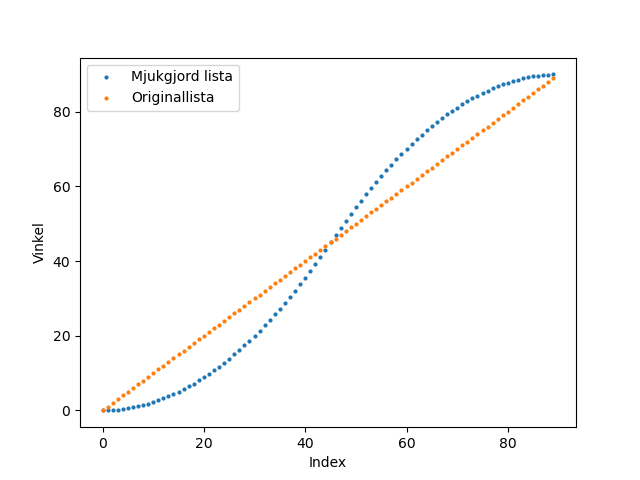
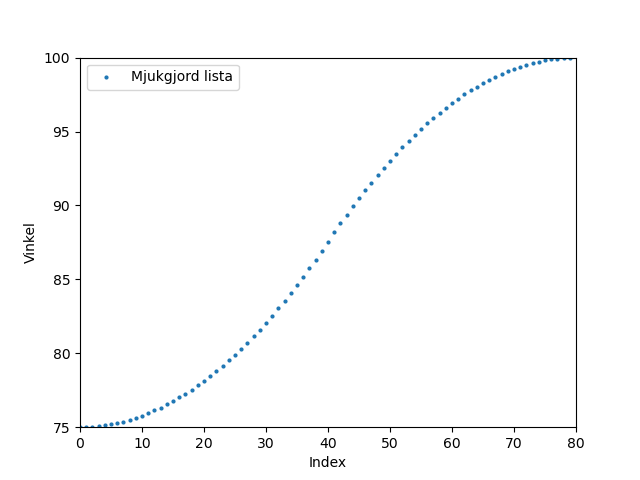
fixat interface och servostyrning

diff --git a/src/runner.py b/src/runner.py
@@ -23,9 +23,15 @@ class Builder:
     def reset_meat(self):
         self.meat = False;
 
+    def init(self):
+        init = ["dog_to_mags", "bread_to_dog"]
+        init_seq = Sequence("init", init)
+        Runner.init(init_seq)
+
     def build(self):
         dog = ["dog_to_mags", "meat/veg", "dog_down", "dog_up", "dog_to_heater", "dog_down", "turn_on", "dog_up", "dog_to_bread", "dog_down"];
         bread = ["bread_to_dog", "dressing", "bread_to_dog"]
+        test = ["dog_to_mags", "dog_to_meat", "dog_down", "dog_up", "dog_to_mags"]
         if self.d1 and self.d2:
             bread[1] = "bread_to_d1"
             bread.insert(2, "dress1")
@@ -40,24 +46,23 @@ class Builder:
         else:
             del bread[1]
 
-        
         if self.meat:
             dog[1] = "dog_to_meat"
-            # config.meat_curr -= 1
-    
+            test[1] = "dog_to_meat"
         else:
             dog[1] = "dog_to_veg"
-            # config.veg_curr -= 1
+            test[1] = "dog_to_veg"
 
-        b_seq = Sequence("b_seq", bread)
-        d_seq = Sequence("d_seq", dog)
-        fin_seq = Sequence("fin_seq", ["dog_final", "bread_final", "dog_up", "dog_to_mags"])
+        b_seq = Sequence("b", bread)
+        d_seq = Sequence("d", dog)
+        fin_seq = Sequence("fin", ["dog_final", "bread_final", "dog_up", "dog_to_mags"])
+        test_seq = Sequence("test_seq", test)
 
         print(f"MEAT: {self.meat}")
         print(f"d1: {self.d1}")
         print(f"d2: {self.d2}")
 
-        return Runner([b_seq, d_seq, fin_seq])
+        return Runner([b_seq, d_seq, fin_seq, test_seq])
 
 
 class Runner:
@@ -69,7 +74,7 @@ class Runner:
     def run(self):
         bread_thread = Thread(target = self.seqs[0].run)
         dog_thread = Thread(target = self.seqs[1].run)
-        final_thread = Thread(target = self.seqs[2].run_sync)
+        final_thread = Thread(target = self.seqs[2].run_fin)
 
         self.running = True
         bread_thread.start()
@@ -82,6 +87,22 @@ class Runner:
         final_thread.join()
 
         self.running = False
+
+    def test(self):
+        test_thread = Thread(target = self.seqs[3].run)
+
+        self.running = True
+
+        test_thread.start()
+        test_thread.join()
+
+        self.running = False
+
+    def init(seq):
+        init_thread = Thread(target = seq.run_sync)
+
+        init_thread.start()
+        init_thread.join()
 
 
 
@@ -98,6 +119,12 @@ class Sequence:
             op_th.join()
 
     def run_sync(self):
+        for op in self.ops:
+            op_th = Thread(target = ops[op].run)
+            op_th.start()
+
+
+    def run_fin(self):
         op1 = Thread(target = ops["dog_final"].run)
         op2 = Thread(target = ops["bread_final"].run)
         op3 = Thread(target = ops["dog_up"].run)
@@ -133,11 +160,11 @@ class Operation:
 
 ops = {}
 
-ops["dog_to_meat"] = Operation(0.3, servo.servos["d_arm"].goto_meat_mag)
+ops["dog_to_meat"] = Operation(1.3, servo.servos["d_arm"].goto_meat_mag)
 
-ops["dog_to_veg"] = Operation(0.3, servo.servos["d_arm"].goto_veg_mag)
+ops["dog_to_veg"] = Operation(1.3, servo.servos["d_arm"].goto_veg_mag)
 
-ops["dog_to_mags"] = Operation(0.3, servo.servos["d_arm"].goto, "mags")
+ops["dog_to_mags"] = Operation(1.3, servo.servos["d_arm"].goto, "mags")
 
 ops["dog_to_heater"]    = Operation(0.3, servo.servos["d_arm"].goto, "heater")
 ops["dog_to_bread"]     = Operation(0.3, servo.servos["d_arm"].goto, "d_final")

diff --git a/src/interface.py b/src/interface.py
@@ -25,14 +25,14 @@ class Interface:
         self.veg_refill = False
         
     def fyllt1(self, e):
-        GPIO.output(MAG_1_FILL_LED_PIN , 0)
+        GPIO.output(MAG_1_FILL_LED_PIN , GPIO.LOW)
         config.meat_curr = 9
         self.meat_refill = False
         print("mag 1 full")
         print("mag 1 (LED_OFF)")
 
     def fyllt2(self, e):
-        GPIO.output(MAG_2_FILL_LED_PIN , 0)
+        GPIO.output(MAG_2_FILL_LED_PIN , GPIO.LOW)
         config.veg_curr = 4
         self.veg_refill = False
         print("mag 2 full")
@@ -51,22 +51,26 @@ class Interface:
         GPIO.setup(MAG_2_FILL_LED_PIN, GPIO.OUT)
         GPIO.setup(HEATER_LED_PIN, GPIO.OUT)
         
+        GPIO.output(MAG_1_FILL_LED_PIN , GPIO.LOW)
+        GPIO.output(MAG_2_FILL_LED_PIN , GPIO.LOW)
         GPIO.add_event_detect(START_PIN, GPIO.RISING, callback=self.go, bouncetime=300)
 
         self.run = False
         self.ready_togo = False
+        
+        self.start_led_off()
 
         while not self.run:
 
-            if config.meat_curr <= 0 and not self.meat_refill:
-                GPIO.output(MAG_1_FILL_LED_PIN, 1)
+            if config.meat_curr < 0 and not self.meat_refill:
+                GPIO.output(MAG_1_FILL_LED_PIN, GPIO.HIGH)
                 GPIO.add_event_detect(MAG_1_FILL_PIN, GPIO.RISING, callback=self.fyllt1, bouncetime=300)
                 print("mag 1 needs refill")
                 print("mag 1 low (LED_ON)")
                 self.meat_refill = True
 
-            if config.veg_curr <= 0 and not self.veg_refill:
-                GPIO.output(MAG_2_FILL_LED_PIN, 1)
+            if config.veg_curr < 0 and not self.veg_refill:
+                GPIO.output(MAG_2_FILL_LED_PIN, GPIO.HIGH)
                 GPIO.add_event_detect(MAG_2_FILL_PIN, GPIO.RISING, callback=self.fyllt2, bouncetime=300)
                 print("mag 2 needs refill")
                 print("mag 2 low (LED_ON)")
@@ -77,10 +81,13 @@ class Interface:
             else:
                 self.builder.reset_meat()
 
-            if ((config.meat_curr > 0 and self.builder.meat) or (config.veg_curr > 0 and not self.builder.meat)):# and not running :
+            if ((config.meat_curr >= 0 and self.builder.meat) or (config.veg_curr >= 0 and not self.builder.meat)):# and not running :
                 self.ready_togo = True
                 print("READY")
                 self.start_led_on()
+            else:
+                self.start_led_off()
+                self.ready_togo = False
 
             time.sleep(0.2)
 
@@ -94,6 +101,11 @@ class Interface:
         else:
             self.builder.reset_d2()
 
+        GPIO.remove_event_detect(START_PIN)
+            
+        self.veg_refill = False
+        self.meat_refill = False
+
         return True
 
     def start_led_on(self):
@@ -103,11 +115,8 @@ class Interface:
         GPIO.output(START_LED_PIN , GPIO.LOW)
 
     def go(self, e):
-        if self.ready_togo:
-            self.run = True
-            self.start_led_off()
-
-        
-
-
-
+        time.sleep(0.1)
+        if GPIO.input(START_PIN):
+            if self.ready_togo and not self.run:
+                self.run = True
+                self.start_led_off()

diff --git a/src/servo.py b/src/servo.py
@@ -10,15 +10,15 @@ class Servo:
         self.set(config.degStates[pos[0]])
 
     def goto_meat_mag(self):
-        print(config.meat_curr)
+        print(f"going to meat pos{config.meat_curr}, position: {config.degStates[f'meat{config.meat_curr}']}")
         pos = config.degStates[f"meat{config.meat_curr}"]
         config.meat_curr = (config.meat_curr - 1)
-        print(config.meat_curr)
         self.set(pos)
 
     def goto_veg_mag(self):
-        config.veg_curr = (config.veg_curr - 1)
+        print(f"going to veg pos{config.veg_curr}, position: {config.degStates[f'veg{config.veg_curr}']}")
         pos = config.degStates[f"veg{config.veg_curr}"]
+        config.veg_curr = (config.veg_curr - 1)
         self.set(pos)
 
     def run(self, cw, timeout, gpio, throttle):
@@ -34,7 +34,7 @@ class Servo:
         self.run(False, 0, config.pins['arm']['up'], 1)
 
     def dress(self):
-        self.run(True, 0.5, 0, 1)
+        self.run(True, 3, 0, 1)
 
     def stop():
         for s in servos:
@@ -55,10 +55,10 @@ class CServo(Servo):
 
 servos = {}
 
-servos["d_arm"] = SServo(590, 1950, 75, "d_arm", 1)
+servos["d_arm"] = SServo(590, 2000, 75, "d_arm", 1)
 servos["d_cyl"] = CServo("d_cyl", 0)
 
-servos["b_arm"] = SServo(650, 1870, 165, "b_arm", 2)
+servos["b_arm"] = SServo(650, 1870, 155, "b_arm", 2)
 servos["b_mag"] = CServo("b_mag", 3)
 servos["dress_1"] = CServo("dress_1", 3)
 servos["dress_2"] = CServo("dress_2", 4)

diff --git a/test.py b/test.py
@@ -11,19 +11,20 @@ kit = ServoKit(channels=16)
 
 def run1(inn, out):
     t = abs(out - inn)
-    # dur = t*(5*math.exp(1-t/12) + 1.5)
-    ease = QuadEaseInOut(inn, out, t)
+    dur = t*(5*math.exp(1-t/12) + 1.5)
+    ease = QuadEaseInOut(inn, out, dur)
     i = 0;
     y = []
-    while i < round(t):
+    while i < round(dur):
         y.append(ease.ease(i))
         i += 1;
-    x = list(range(0, round(t)))
+    x = list(range(0, round(dur)))
     y2 = list(range(inn, out))
     x2 = list(range(0, len(y2)))
     fig, ax = plt.subplots()
     ax.scatter(x, y, 2**2, label="Mjukgjord lista")
-    ax.scatter(x2, y2, 2**2, label="Originallista")
+    ax.set(xlim=(0, round(dur)), ylim=(inn, out))
+    # ax.scatter(x2, y2, 2**2, label="Originallista")
     ax.legend()
     plt.xlabel('Index')
     plt.ylabel('Vinkel')
@@ -84,13 +85,13 @@ def up():
 def test2():
     GPIO.setmode(GPIO.BCM)
 
-    GPIO.setup(26, GPIO.OUT)
-    GPIO.output(26, GPIO.LOW)
+    GPIO.setup(20, GPIO.OUT)
+    GPIO.output(20, GPIO.LOW)
     sleep(0.5)
 
-    GPIO.output(26, GPIO.HIGH)
+    GPIO.output(20, GPIO.HIGH)
     sleep(0.5)
-    GPIO.output(26, GPIO.LOW)
+    GPIO.output(20, GPIO.LOW)
     sleep(0.5)
 
     # while True:
@@ -128,4 +129,4 @@ def test2():
 
 # plot()
 
-test2()
+run1(75, 100)

diff --git a/src/config.py b/src/config.py
@@ -5,8 +5,8 @@ pins = {
         'meat': 7,
         'd1': 6,
         'd2': 13,
-        's_led': 21,
-        's_btn': 20,
+        's_led': 20,
+        's_btn': 21,
         'mag2_led': 16,
         'mag2_btn': 12,
         'mag1_led': 26,
@@ -19,25 +19,30 @@ pins = {
     }
 }
 
-meat_curr = 0;
-veg_curr = 0;
+meat_curr = 9;      # MAX 9
+veg_curr = 4;       # MAX 4
 
 degStates = {}
 
-degStates["heater"]     = 170
+degStates["heater"]     = 180
 degStates["d_final"]    = 5
-degStates["d_takeoff"]  = 15
+degStates["d_takeoff"]  = 16
 degStates["b_final"]    = 155
 degStates["b_takeoff"]  = 165
 degStates["d1"]         = 120
 degStates["d2"]         = 90
+degStates["mags"]       = 71
 
-meat_degs = [120,115,110,105,100,95,90,85,85,80];
-veg_degs = [75,70,65,60,55];
-degStates["mags"] = 75
+veg_start = 43;
+veg_end = 71;
 
-for i, deg in enumerate(meat_degs):
+meat_start = 80
+meat_end = 143
+
+for i in range(0, 10):
+    deg = i*abs(meat_end - meat_start)/9 + meat_start
     degStates[f"meat{i}"] = deg;
 
-for i, deg in enumerate(veg_degs):
+for i in range(0, 5):
+    deg = i*abs(veg_end - veg_start)/4 + veg_start
     degStates[f"veg{i}"] = deg;

diff --git a/main.py b/main.py
@@ -7,7 +7,8 @@ import time
 builder1 = runner.Builder();
 interface1 = interface.Interface(builder1)
 runner1 = None
-
+servo.Servo.stop()
+builder1.init()
 while True:
     check = Thread(target = interface1.check)
     check.start()
@@ -16,6 +17,7 @@ while True:
     runner1 = builder1.build()
     print("Running!")
     run_th = Thread(target = runner1.run)
+    # run_th = Thread(target = runner1.test)
     run_th.start()
     print("Thread started!")
     run_th.join()

diff --git a/src/control.py b/src/control.py
@@ -46,7 +46,7 @@ class Control:
         while i < dur:
             kit.servo[servo.channel].angle = ease.ease(i)
             i += 1;
-            time.sleep(0.008)
+            time.sleep(0.007)
 
     def stop(channel):
         kit.continuous_servo[channel].throttle = 0;

diff --git a/src/heater.py b/src/heater.py
@@ -16,7 +16,7 @@ class Heater:
         while True:
             temp = thermocouple.get()
             print(temp)
-            if temp >= 22:
+            if temp >= 23:
                 print("heating done")
                 break;
             sleep(0.5)
